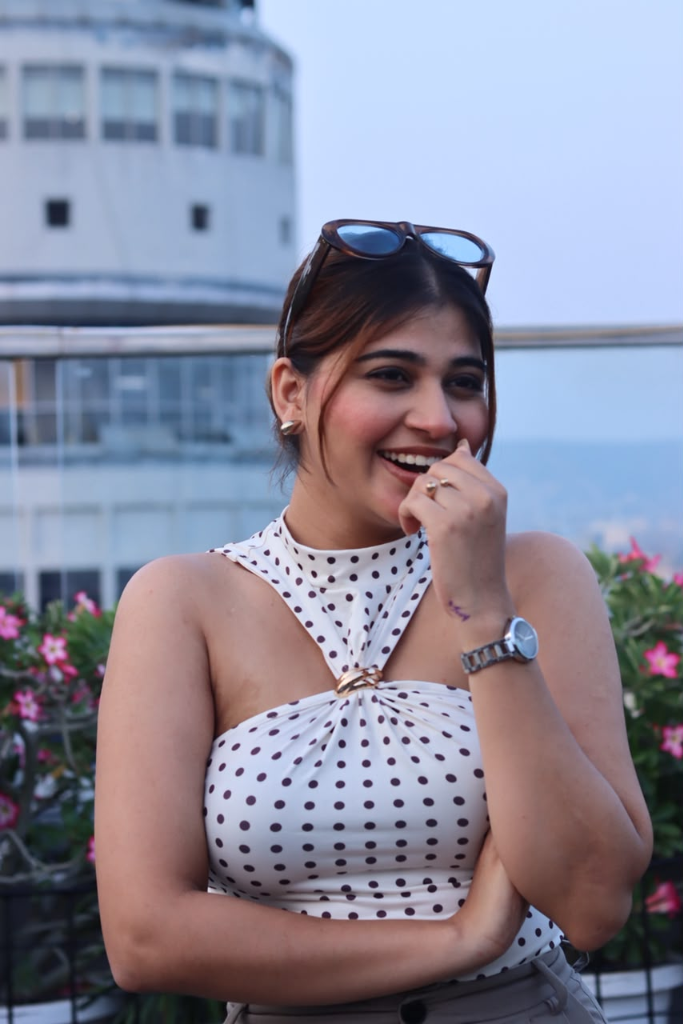
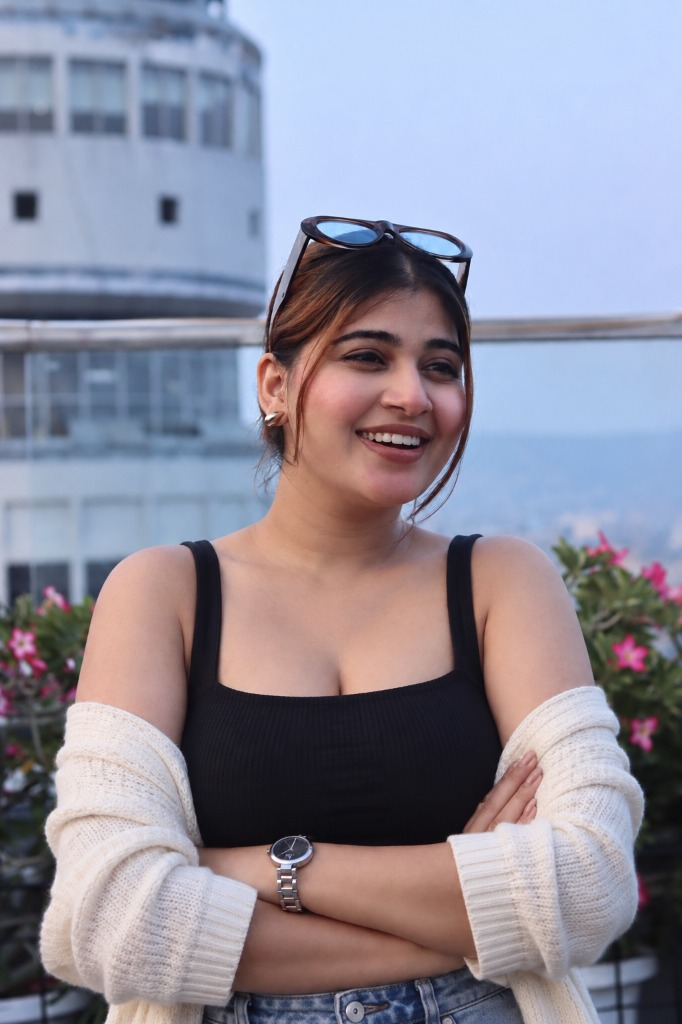
Update Priya photos with newly uploaded 4 HD portrait images

diff --git a/src/routes/activityRoutes.js b/src/routes/activityRoutes.js
@@ -331,12 +331,14 @@ const getPartnerProfileById = (targetId = '101', baseUrl = 'https://withmeapi-us
       profile_images: [
         `${baseUrl}/uploads/priya.jpg`,
         `${baseUrl}/uploads/priya2.jpg`,
-        `${baseUrl}/uploads/priya3.jpg`
+        `${baseUrl}/uploads/priya3.jpg`,
+        `${baseUrl}/uploads/priya4.jpg`
       ],
       photos: [
         `${baseUrl}/uploads/priya.jpg`,
         `${baseUrl}/uploads/priya2.jpg`,
-        `${baseUrl}/uploads/priya3.jpg`
+        `${baseUrl}/uploads/priya3.jpg`,
+        `${baseUrl}/uploads/priya4.jpg`
       ],
       interests: [
         { name: 'Coffee', icon: 'coffee' },
@@ -554,12 +556,14 @@ const getPartnerProfileById = (targetId = '101', baseUrl = 'https://withmeapi-us
     profile_images: [
       `${baseUrl}/uploads/priya.jpg`,
       `${baseUrl}/uploads/priya2.jpg`,
-      `${baseUrl}/uploads/priya3.jpg`
+      `${baseUrl}/uploads/priya3.jpg`,
+      `${baseUrl}/uploads/priya4.jpg`
     ],
     photos: [
       `${baseUrl}/uploads/priya.jpg`,
       `${baseUrl}/uploads/priya2.jpg`,
-      `${baseUrl}/uploads/priya3.jpg`
+      `${baseUrl}/uploads/priya3.jpg`,
+      `${baseUrl}/uploads/priya4.jpg`
     ],
     interests: [
       { name: 'Coffee', icon: 'coffee' },

diff --git a/src/routes/profileKycRoutes.js b/src/routes/profileKycRoutes.js
@@ -229,7 +229,7 @@ const handleDetailedProfileView = (req, res) => {
     rating: 4.8,
     total_reviews: 120,
     about: 'Friendly, outgoing and loves exploring new places and meeting people.',
-    profile_images: [`${baseUrl}/uploads/priya.jpg`, `${baseUrl}/uploads/priya2.jpg`, `${baseUrl}/uploads/priya3.jpg`],
+    profile_images: [`${baseUrl}/uploads/priya.jpg`, `${baseUrl}/uploads/priya2.jpg`, `${baseUrl}/uploads/priya3.jpg`, `${baseUrl}/uploads/priya4.jpg`],
     interests: [{ name: 'Coffee', icon: 'coffee' }, { name: 'Travel', icon: 'flight' }],
     available_for: [{ name: 'Coffee', icon: 'coffee', price: 299, currency: 'INR' }, { name: 'Dinner', icon: 'restaurant', price: 499, currency: 'INR' }]
   };

diff --git a/src/routes/exploreRoutes.js b/src/routes/exploreRoutes.js
@@ -75,12 +75,14 @@ router.get('/explore', authenticateToken, (req, res) => {
       profile_images: [
         `${baseUrl}/uploads/priya.jpg`,
         `${baseUrl}/uploads/priya2.jpg`,
-        `${baseUrl}/uploads/priya3.jpg`
+        `${baseUrl}/uploads/priya3.jpg`,
+        `${baseUrl}/uploads/priya4.jpg`
       ],
       photos: [
         `${baseUrl}/uploads/priya.jpg`,
         `${baseUrl}/uploads/priya2.jpg`,
-        `${baseUrl}/uploads/priya3.jpg`
+        `${baseUrl}/uploads/priya3.jpg`,
+        `${baseUrl}/uploads/priya4.jpg`
       ]
     }
   ];

diff --git a/src/routes/partnerRequestRoutes.js b/src/routes/partnerRequestRoutes.js
@@ -28,12 +28,14 @@ const getApprovedPartnersList = (baseUrl) => [
     profile_images: [
       `${baseUrl}/uploads/priya.jpg`,
       `${baseUrl}/uploads/priya2.jpg`,
-      `${baseUrl}/uploads/priya3.jpg`
+      `${baseUrl}/uploads/priya3.jpg`,
+      `${baseUrl}/uploads/priya4.jpg`
     ],
     photos: [
       `${baseUrl}/uploads/priya.jpg`,
       `${baseUrl}/uploads/priya2.jpg`,
-      `${baseUrl}/uploads/priya3.jpg`
+      `${baseUrl}/uploads/priya3.jpg`,
+      `${baseUrl}/uploads/priya4.jpg`
     ],
     is_verified: true,
     is_approved: true,
